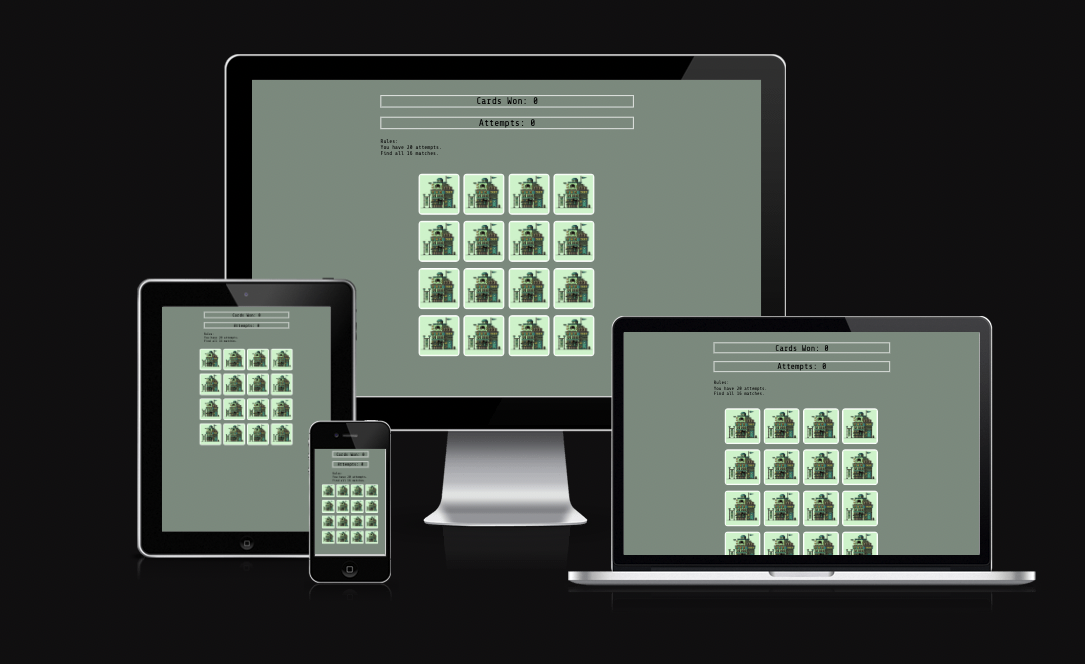
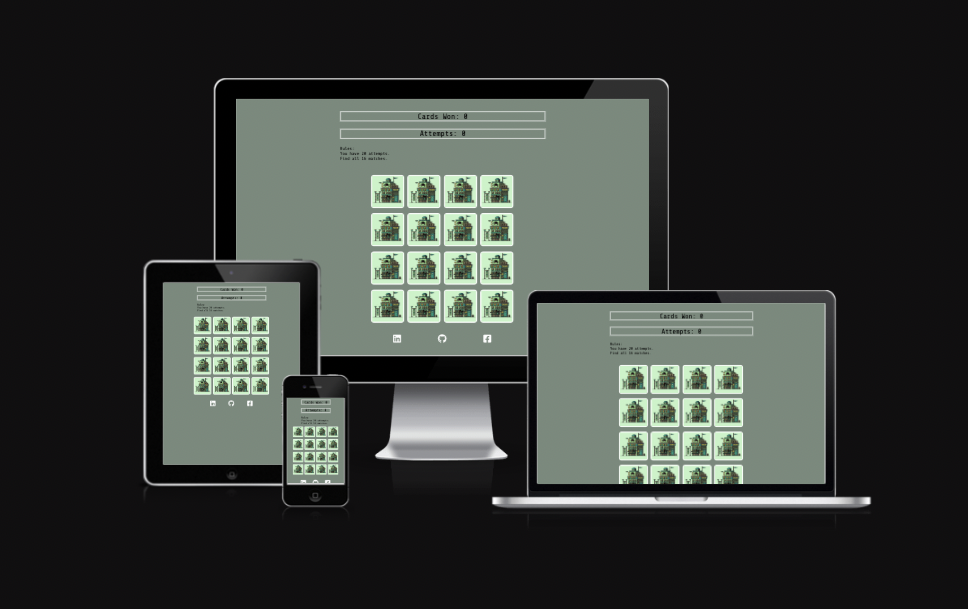
change testing errors from w3c validator

Changed region(s): [[0.124, 0.0624, 0.9607, 0.9048], [0.3099, 0.8736, 0.3409, 0.9048], [0.186, 0.0936, 0.2169, 0.1248]]

diff --git a/assets/css/stylesheet.css b/assets/css/stylesheet.css
@@ -8,7 +8,6 @@ body {
     font-family: 'Share Tech Mono', monospace;
     color: #000000;
     font-size: 30px;
-    position: center;
 }
 
 /* add stylinng attempts and cards won */
@@ -107,14 +106,13 @@ ul {
     }
     
     #game_body {
-        height: 445;
+        height: 445px;
         width: 445px;
     }
 
     img {
         max-width: 100px;
-        height: 100;
-        size: cover;
+        height: 100px;
         background-position: center;
     }
 

diff --git a/index.html b/index.html
@@ -24,7 +24,8 @@
             </span>
         </p>
 
-        <ul id="rules">Rules: 
+        <ul id="rules">
+            <li>Rules:</li> 
             <li>You have 20 attempts.</li>
             <li>Find all 16 matches.</li>
         </ul>
